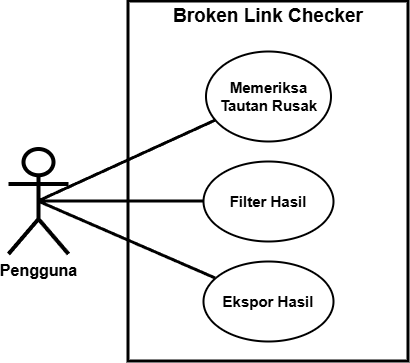
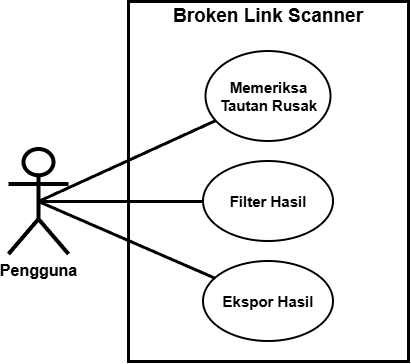
merapikan dokumen

diff --git a/DokumenSkripsi/Bab/analisis/analisis-sistem-serupa/broken-link-checker.tex b/DokumenSkripsi/Bab/analisis/analisis-sistem-serupa/broken-link-checker.tex
@@ -3,14 +3,14 @@ Broken Link Checker\footnote{\url{https://www.brokenlinkcheck.com} (Diakses pada
 
 \subsubsection*{Tampilan dan Interaksi}
 
-Gambar~\ref{fig:analisis-brokenlinkchecker} menunjukkan antarmuka Broken Link Checker saat proses pemeriksaan berlangsung. Alur penggunaan secara umum dimulai dengan memasukkan alamat situs pada kolom input, mengisi kode keamanan, memilih mode pemeriksaan, lalu menekan tombol \textit{Find broken links now!} untuk memulai proses. Selama pemeriksaan berjalan, hasil ditampilkan langsung dalam bentuk tabel, dan pengguna dapat menghentikan proses dengan menekan tombol \textit{Stop}.
+Gambar~\ref{fig:analisis-brokenlinkchecker} menunjukkan antarmuka pengguna Broken Link Checker saat proses pemeriksaan berlangsung. Alur penggunaan secara umum dimulai dengan memasukkan alamat situs pada kolom input, mengisi kode keamanan, memilih mode pemeriksaan, lalu menekan tombol \textit{Find broken links now!} untuk memulai proses. Selama pemeriksaan berjalan, hasil ditampilkan langsung dalam bentuk tabel, dan pengguna dapat menghentikan proses dengan menekan tombol \textit{Stop}.
 
-% \begin{figure}[H]
-%     \centering
-%     \includegraphics[width=0.95\textwidth]{Gambar/030203-broken-link-checker.png}
-%     \caption{Antarmuka Broken Link Checker}
-%     \label{fig:analisis-brokenlinkchecker}
-% \end{figure}
+\begin{figure}[H]
+    \centering
+    \includegraphics[width=0.95\textwidth]{Gambar/030203-broken-link-checker.png}
+    \caption{Antarmuka pengguna Broken Link Checker}
+    \label{fig:analisis-brokenlinkchecker}
+\end{figure}
 
 Berikut adalah komponen utama antarmuka pengguna Broken Link Checker pada layanan pemeriksaan tautan rusak:
 
@@ -19,7 +19,7 @@ Berikut adalah komponen utama antarmuka pengguna Broken Link Checker pada layana
     Komponen ini digunakan untuk memasukkan alamat situs web yang akan diperiksa. Pengguna dapat menuliskan alamat dalam bentuk domain saja, tanpa harus menyertakan skema \texttt{http://} atau \texttt{https://}. Sistem akan tetap menerima input tersebut dan mengolahnya sebagai URL awal pemeriksaan. Kemudahan ini mempersingkat proses input, meskipun dapat menimbulkan potensi ambiguitas pada situs web yang hanya mendukung skema tertentu, misalnya hanya \texttt{https://}.
 
     \item \textbf{Security code}\\
-    Sebelum memulai proses pemeriksaan, pengguna diwajibkan mengisi \textit{security code} berupa captcha. Keharusan ini berfungsi sebagai mekanisme pencegahan terhadap penggunaan otomatis (bot) yang dapat membebani server layanan. Kode keamanan ini bersifat dinamis dan dapat diganti dengan menekan tombol \textit{Generate new code} yang tersedia pada antarmuka.
+    Sebelum memulai proses pemeriksaan, pengguna diwajibkan mengisi \textit{security code} berupa captcha. Keharusan ini berfungsi sebagai mekanisme pencegahan terhadap penggunaan otomatis (bot) yang dapat membebani server layanan. Kode keamanan ini bersifat dinamis dan dapat diganti dengan menekan tombol \textit{Generate new code} yang tersedia pada antarmuka pengguna.
 
     \item \textbf{Mode pemeriksaan}\\
     Tersedia dua pilihan mode pemeriksaan yang dapat dipilih melalui tombol radio, yaitu \textit{Report distinct broken links only}, dan \textit{Report all occurrences of each dead link}. Mode \textit{Report distinct broken links only} menampilkan setiap tautan rusak hanya sekali, tanpa memperhatikan berapa banyak halaman yang memuat tautan tersebut. Pendekatan ini membuat proses lebih cepat, tetapi informasi lokasi kemunculan tautan hanya terbatas pada satu halaman. Sebaliknya, mode \textit{Report all occurrences of each dead link (may be slower)} menampilkan seluruh kemunculan tautan rusak beserta halaman sumbernya. Dengan demikian, jika sebuah tautan rusak terdapat pada beberapa halaman, maka akan muncul beberapa entri dengan sumber berbeda pada tabel hasil. Mode ini memberikan informasi yang lebih lengkap, namun membutuhkan waktu pemrosesan yang lebih lama.
@@ -52,7 +52,7 @@ Berikut adalah komponen utama antarmuka pengguna Broken Link Checker pada layana
 
 
 \subsubsection*{Mekanisme dan Ketentuan Teknis}  
-Selain fitur yang tampak pada antarmuka, Broken Link Checker juga memiliki sejumlah mekanisme teknis yang menentukan cara kerja dan batasan layanan. Mekanisme ini penting untuk dipahami agar pengguna dapat menafsirkan hasil pemeriksaan dengan tepat dan menyesuaikan penggunaan sesuai kebutuhan. Mekanisme dan ketentuan teknis tersebut dapat dirangkum sebagai berikut:
+Selain fitur yang tampak pada antarmuka pengguna, Broken Link Checker juga memiliki sejumlah mekanisme teknis yang menentukan cara kerja dan batasan layanan. Mekanisme ini penting untuk dipahami agar pengguna dapat menafsirkan hasil pemeriksaan dengan tepat dan menyesuaikan penggunaan sesuai kebutuhan. Mekanisme dan ketentuan teknis tersebut dapat dirangkum sebagai berikut:
 
 \vspace{20mm}
 

diff --git a/DokumenSkripsi/Bab/analisis/analisis-masalah/tautan-rusak.tex b/DokumenSkripsi/Bab/analisis/analisis-masalah/tautan-rusak.tex
@@ -19,7 +19,7 @@ Komponen-komponen tersebut menentukan arah dan tujuan akses. Ketidaktepatan nila
 
 \vspace{-3mm}
 \subsubsection*{Validitas Sintaks dan Encoding}
-Pada Subbab~\ref{subsec:0202-karakter-percent-encoding} dijelaskan bahwa URI memiliki aturan sintaks dan \textit{percent-encoding} yang harus dipenuhi agar dapat diproses dengan benar. Pelanggaran terhadap aturan ini menyebabkan URL tidak dapat ditafsirkan atau ditolak oleh server.
+Pada Subsubbab~\ref{subsec:0202-karakter-percent-encoding} dijelaskan bahwa URI memiliki aturan sintaks dan \textit{percent-encoding} yang harus dipenuhi agar dapat diproses dengan benar. Pelanggaran terhadap aturan ini menyebabkan URL tidak dapat ditafsirkan atau ditolak oleh server.
 
 Kesalahan yang dapat menyebabkan tautan rusak antara lain:
 \begin{itemize}
@@ -38,7 +38,7 @@ Selain itu, proses normalisasi URL dapat menghasilkan URL yang tidak valid apabi
 \vspace{-3mm}
 \subsubsection*{URL Relatif}
 \vspace{-2mm}
-Pada Subbab~\ref{subsec:0202-struktur-url} dijelaskan bahwa URL relatif tidak dapat digunakan secara langsung, melainkan harus digabungkan dengan \textit{base} URI untuk membentuk URL absolut. Kesalahan sering terjadi apabila \textit{base} URI tidak sesuai dengan struktur dokumen, sehingga proses resolusi menghasilkan URL absolut yang berbeda dari lokasi sumber daya yang sebenarnya. Selain itu, resolusi URL juga mewajibkan penghapusan \textit{dot-segments} seperti \texttt{.} dan \texttt{..}. Apabila segmen tersebut tidak dihapus, jalur yang dihasilkan menjadi tidak akurat. Akibatnya, URL relatif yang secara sintaks valid berubah menjadi tautan yang gagal diarahkan ke sumber daya yang benar. Situasi ini merupakan salah satu penyebab tautan rusak yang berasal dari kesalahan konstruksi URL absolut, bukan dari kesalahan struktur URL awal.
+Pada Subsubbab~\ref{subsec:0202-struktur-url} dijelaskan bahwa URL relatif tidak dapat digunakan secara langsung, melainkan harus digabungkan dengan \textit{base} URI untuk membentuk URL absolut. Kesalahan sering terjadi apabila \textit{base} URI tidak sesuai dengan struktur dokumen, sehingga proses resolusi menghasilkan URL absolut yang berbeda dari lokasi sumber daya yang sebenarnya. Selain itu, resolusi URL juga mewajibkan penghapusan \textit{dot-segments} seperti \texttt{.} dan \texttt{..}. Apabila segmen tersebut tidak dihapus, jalur yang dihasilkan menjadi tidak akurat. Akibatnya, URL relatif yang secara sintaks valid berubah menjadi tautan yang gagal diarahkan ke sumber daya yang benar. Situasi ini merupakan salah satu penyebab tautan rusak yang berasal dari kesalahan konstruksi URL absolut, bukan dari kesalahan struktur URL awal.
 
 \vspace{-3mm}
 \subsubsection*{Komunikasi HTTP}
@@ -48,7 +48,7 @@ Pada Subbab~\ref{sec:020100-http} dijelaskan bahwa akses terhadap sumber daya ti
 \vspace{-3mm}
 \subsubsection*{Kode Status HTTP}
 \vspace{-2mm}
-Pada Subbab~\ref{subsec:0201-kode-status-http} dijelaskan bahwa kode status HTTP digunakan untuk menunjukkan hasil pemrosesan permintaan. Untuk keperluan penentuan tautan rusak, kategori kode status perlu ditetapkan dengan batas yang jelas agar setiap respons dapat dinilai secara konsisten.
+Pada Subsubbab~\ref{subsec:0201-kode-status-http} dijelaskan bahwa kode status HTTP digunakan untuk menunjukkan hasil pemrosesan permintaan. Untuk keperluan penentuan tautan rusak, kategori kode status perlu ditetapkan dengan batas yang jelas agar setiap respons dapat dinilai secara konsisten.
 
 Dalam penelitian ini ditetapkan bahwa seluruh kode pada kategori \textit{Client Error} 4xx dan \textit{Server Error} 5xx dianggap sebagai indikator kegagalan akses. Kategori \textit{Client Error} 4xx menunjukkan bahwa permintaan tidak berhasil diproses karena terdapat kekeliruan pada permintaan yang dikirimkan, seperti sumber daya yang tidak tersedia, permintaan yang tidak memenuhi syarat, atau pembatasan akses. Kategori \textit{Server Error} 5xx menunjukkan bahwa server tidak mampu menyediakan sumber daya akibat kegagalan pemrosesan atau gangguan pada layanan.
 

diff --git a/DokumenSkripsi/Bab/analisis/analisis-kebutuhan/kebutuhan-fungsional.tex b/DokumenSkripsi/Bab/analisis/analisis-kebutuhan/kebutuhan-fungsional.tex
@@ -1,26 +1,28 @@
-
-Kebutuhan fungsional berikut menggambarkan layanan inti yang harus disediakan oleh aplikasi desktop pemeriksa tautan rusak pada situs web:
+Penetapakan kebutuhan fungsional didasarkan pada analisis masalah (lihat Subbab~\ref{sec:030100-analisis-masalah}) dan analisis sistem serupa (lihat Subbab~\ref{sec:030200-analisis-sistem-serupa}) yang telah dilakukan. Kebutuhan fungsional berikut menggambarkan layanan inti yang harus disediakan oleh aplikasi yang dikembangkan:
 
 \begin{enumerate}
-    \item \textbf{Input URL}\\
-    Sistem harus dapat menerima masukan berupa URL dari pengguna sebagai titik awal pemeriksaan.
+    \item \textbf{Nama aplikasi}\\
+    Sistem akan diberi nama Broken Link Scanner. Nama ini dipilih karena menggambarkan fungsionalitas sistem dan tidak bertabrakan dengan nama sistem lain.
 
-    \item \textbf{Tampilan hasil secara \textit{streaming}}\\
-    Sistem menampilkan daftar tautan yang ditemukan dari halaman web secara langsung (\textit{streaming}) selama proses pemeriksaan berlangsung.
+    % \vspace{-2mm}
+    \item \textbf{Input URL}\\
+    Sistem dapat menerima masukan berupa URL dari pengguna sebagai titik awal pemeriksaan.
+
+    \item \textbf{Menampilkan hasil}\\
+    Sistem menampilkan menampilkan hasil pemeriksaan tautan rusak secara langsung (\textit{streaming}) sehingga pengguna dapat melihat perkembangan pemeriksaan. Selain itu, sistem juga menyediakan bagian tersendiri untuk menampilkan informasi lebih detail dari sebuah tautan rusak.
 
     \item \textbf{Kontrol proses}\\
-    Sistem menyediakan mekanisme bagi pengguna untuk menghentikan proses pemeriksaan kapan saja.
-
+    Sistem menyediakan mekanisme bagi pengguna untuk memulai dan menghentikan proses pemeriksaan kapan saja.
 
     \item \textbf{Ringkasan hasil}\\
-    sistem menampilkan ringkasan berisi jumlah tautan yang diperiksa, jumlah tautan rusak, jumlah tautan yang terblokir, dan status proses pemeriksaan.
+    Sistem menampilkan ringkasan hasil pemeriksaan yang berisi status pemeriksaan, jumlah total tautan, jumlah tautan halaman sumber, jumlah tautan rusak, serta waktu mulai dan waktu selesai pemeriksaan.
 
-    \item \textbf{Sumber tautan rusak}\\
-    Sistem menampilkan lokasi atau halaman tempat tautan rusak ditemukan, sehingga pengguna dapat menelusuri asal masalah.
+    \item \textbf{Lokasi tautan rusak}\\
+    Sistem menampilkan halaman tempat tautan rusak ditemukan, sehingga pengguna dapat menelusuri asal masalah.
 
     \item \textbf{Ekspor hasil}\\
-    Sistem dapat mengekspor hasil pemeriksaan ke dalam berkas Excel agar mudah disimpan, dibagikan, atau dianalisis lebih lanjut.
+    Sistem dapat mengekspor hasil pemeriksaan ke dalam berkas Excel dalam format XLSX. Fitur ini ditetapkan untuk mempermudah pengguna sehingga tidak harus melakukan pemeriksaan ulang berkali-kali setiap ingin mengetahui keberadaan tautan rusak pada situs web.
 
     \item \textbf{\textit{Filter} hasil}\\
-    Sistem dapat melakukan penyaringan hasil pemeriksaan berdasarkan masukan dari pengguna.
+    Sistem dapat melakukan penyaringan hasil pemeriksaan berdasarkan masukan dari pengguna. Fitur ini ditetapkan karena pada sistem serupa sangat menyulitkan ketika ingin mendapatkan tautan rusak dengan kesalahan tertentu.
 \end{enumerate}

diff --git a/DokumenSkripsi/Bab/analisis/analisis-kebutuhan/kebutuhan-non-fungsional.tex b/DokumenSkripsi/Bab/analisis/analisis-kebutuhan/kebutuhan-non-fungsional.tex
@@ -1,29 +1,24 @@
 
 Selain fungsi inti, sistem juga harus memenuhi sejumlah kebutuhan non-fungsional agar pemeriksaan tautan dapat berjalan stabil, efisien, dan mudah digunakan. Kebutuhan non-fungsional yang ditetapkan adalah sebagai berikut:
 
-\begin{enumerate}
+\begin{enumerate}[itemsep=3pt]
     \item \textbf{Antarmuka pengguna}\\
-    Sistem disajikan dalam bentuk aplikasi desktop berbasis JavaFX dengan tampilan yang sederhana, tabel yang mudah dibaca, serta kontrol proses yang jelas.
-
-    \item \textbf{Kinerja pemeriksaan}\\
-    Sistem mampu menangani jumlah tautan yang besar dengan tetap menjaga waktu tanggap yang wajar. Hal ini dicapai dengan penerapan batas waktu (\textit{timeout}) pada setiap permintaan.
-
+    Sistem dibangun melalui aplikasi desktop berbasis JavaFX dengan tampilan yang sederhana, tabel yang mudah dibaca, serta kontrol proses yang jelas.
+    
     \item \textbf{Pengendalian laju}\\
-    Sistem membatasi jumlah permintaan dalam satuan waktu (\textit{rate limiting}) untuk mencegah server tujuan terbebani dan mengurangi risiko pemblokiran.
+    Sistem membatasi jumlah permintaan dalam satuan waktu (\textit{rate limiting}) untuk mencegah \textit{server} tujuan terbebani dan mengurangi risiko pemblokiran.
 
     \item \textbf{Eksekusi paralel}\\
-    Sistem mendukung eksekusi permintaan secara paralel khusus pada tahap pemeriksaan tautan agar proses lebih cepat.
+    Sistem mendukung eksekusi permintaan HTTP secara paralel khusus pada tahap pemeriksaan tautan agar proses lebih cepat.
 
     \item \textbf{Ketahanan terhadap HTML tidak valid}\\
     Sistem mampu mengurai dokumen HTML yang tidak sesuai standar dengan bantuan Jsoup, sehingga tautan tetap dapat diekstrak meskipun struktur dokumen bermasalah.
 
+    \vspace{20mm}
     \item \textbf{Konsistensi identifikasi URL}\\
-    Setiap URL dinormalisasi dan dicatat dalam repository untuk memastikan satu sumber daya hanya diperiksa sekali, sehingga hasil pemeriksaan konsisten dan tidak ada duplikasi.
+    Setiap URL harus dinormalisasi dan dicatat dalam penyimpanan terpusat dan unik untuk memastikan satu sumber daya hanya diperiksa sekali, sehingga hasil pemeriksaan konsisten dan tidak ada duplikasi.
 
     \item \textbf{Etika \textit{crawling}}\\
-    Setiap permintaan menyertakan identitas \texttt{User-Agent}. Sistem juga menyediakan pengaturan jeda permintaan untuk menjaga agar aktivitas pemeriksaan tidak membebani server.
+    Setiap permintaan HTTP harus menyertakan identitas aplikasi melalui \texttt{User-Agent}.
 
 \end{enumerate}
-
-
-\vspace{30mm}

diff --git a/DokumenSkripsi/Bab/pendahuluan/latar-belakang.tex b/DokumenSkripsi/Bab/pendahuluan/latar-belakang.tex
@@ -9,12 +9,12 @@ Namun, kedua aspek tersebut dapat terganggu oleh keberadaan tautan rusak pada si
 Untuk mendeteksi tautan rusak pada sebuah situs web, terdapat dua pendekatan yang dapat digunakan. Pendekatan pertama adalah dengan melakukan pemeriksaan secara manual, namun pendekatan ini menjadi kurang efektif jika situs web memiliki ratusan bahkan ribuan halaman, karena setiap tautan harus diuji satu per satu. Pendekatan kedua adalah dengan memanfaatkan perangkat lunak pemeriksa tautan rusak yang tersedia secara daring seperti Broken Link Checker\footnote{\url{https://www.brokenlinkcheck.com} (Diakses pada 20 Juli 2025)}. Gambar~\ref{fig:contoh-broken-link-checker} menunjukkan hasil pemeriksaan menggunakan Broken Link Checker pada situs web Informatika UNPAR\footnote{\url{https://informatika.unpar.ac.id} (Diakses pada 20 Juli 2025)}. Hasil pemeriksaan tersebut ditampilkan dalam bentuk tabel yang berisi informasi seperti URL dari tautan rusak yang ditemukan, teks pada tautan tersebut, halaman sumber tautan tersebut ditemukan, serta kode status HTTP sebagai respons dari \textit{server}. 
 
 
-% \begin{figure}[H]
-%     \centering
-%     \includegraphics[width=1\textwidth]{Gambar/010100-broken-link-checker.png}
-%     \caption{Contoh Hasil Pemeriksaan Menggunakan Broken Link Checker}
-%     \label{fig:contoh-broken-link-checker}
-% \end{figure}
+\begin{figure}[H]
+    \centering
+    \includegraphics[width=1\textwidth]{Gambar/010100-broken-link-checker.png}
+    \caption{Contoh pemeriksaan tautan rusak menggunakan Broken Link Checker}
+    \label{fig:contoh-broken-link-checker}
+\end{figure}
 
 
 Dalam penelitian ini dikembangkan sebuah perangkat lunak berbasis desktop yang dapat digunakan untuk memeriksa keberadaan tautan rusak pada sebuah situs web. Perangkat lunak ini menerima sebuah masukan berupa URL situs web, kemudian melakukan penelusuran terhadap halaman pada situs web tersebut. Pada setiap halaman yang dikunjungi dilakukan ekstraksi tautan dan setiap tautan yang ditemukan kemudian diperiksa dengan melakukan permintaan HTTP. Respons dari \textit{server} dicatat dan dievaluasi untuk menentukan apakah tautan tersebut teridentifikasi sebagai tautan rusak atau tidak. Selanjutnya, setiap tautan rusak akan dikumpulkan dan disajikan sebagai hasil pemeriksaan. Untuk mempermudah pengguna dalam menjalankan proses pemeriksaan dan membaca hasil pemeriksaan, perangkat lunak ini dilengkapi dengan antarmuka pengguna grafis yang intuitif.

diff --git a/DokumenSkripsi/Bab/implementasi-dan-pengujian/implementasi/implementasi-antarmuka.tex b/DokumenSkripsi/Bab/implementasi-dan-pengujian/implementasi/implementasi-antarmuka.tex
@@ -10,12 +10,12 @@ Bagian ini memaparkan hasil implementasi antarmuka pengguna berdasarkan perancan
 
     \vspace{15mm}
 
-    % \begin{figure}[H]
-    %     \centering
-    %     \includegraphics[width=0.95\textwidth]{Gambar/050104-implementasi-jendela-utama.png}
-    %     \caption{Implementasi Antarmuka Jendela Utama}
-    %     \label{fig:implementasi-jendela-utama}
-    % \end{figure}
+    \begin{figure}[H]
+        \centering
+        \includegraphics[width=0.95\textwidth]{Gambar/050104-implementasi-jendela-utama.png}
+        \caption{Implementasi antarmuka pengguna jendela utama}
+        \label{fig:implementasi-jendela-utama}
+    \end{figure}
 
     \vspace{15mm}
 
@@ -25,12 +25,12 @@ Bagian ini memaparkan hasil implementasi antarmuka pengguna berdasarkan perancan
     Seluruh rancangan komponen antarmuka jendela detail tautan telah berhasil diimplementasikan pada jendela ini. Pada jendela ini ditampilkan informasi lengkap dari sebuah tautan, yaitu URL, \textit{final} URL, \textit{content type}, \textit{error} serta daftar sumber halaman tempat tautan ditemukan yang ditampilkan dalam bentuk tabel.
 
 
-    % \begin{figure}[H]
-    %     \centering
-    %     \includegraphics[width=0.8\textwidth]{Gambar/050104-implementasi-jendela-detail-tautan.png}
-    %     \caption{Implementasi Antarmuka Jendela Detail Tautan}
-    %     \label{fig:implementasi-jendela-detail-tautan}
-    % \end{figure}
+    \begin{figure}[H]
+        \centering
+        \includegraphics[width=0.8\textwidth]{Gambar/050104-implementasi-jendela-detail-tautan.png}
+        \caption{Implementasi antarmuka pengguna jendela detail tautan}
+        \label{fig:implementasi-jendela-detail-tautan}
+    \end{figure}
 
 
     \item \textbf{Jendela Notifikasi}\\
@@ -42,10 +42,10 @@ Bagian ini memaparkan hasil implementasi antarmuka pengguna berdasarkan perancan
 
     \vspace{10mm}
 
-    % \begin{figure}[H]
-    %     \centering
-    %     \includegraphics[width=0.7\textwidth]{Gambar/050104-implementasi-jendela-notifikasi.png}
-    %     \caption{Implementasi Antarmuka Jendela Notifikasi}
-    %     \label{fig:implementasi-jendela-notifikasi}
-    % \end{figure}
+    \begin{figure}[H]
+        \centering
+        \includegraphics[width=0.7\textwidth]{Gambar/050104-implementasi-jendela-notifikasi.png}
+        \caption{Implementasi antarmuka pengguna jendela notifikasi}
+        \label{fig:implementasi-jendela-notifikasi}
+    \end{figure}
 \end{enumerate}

diff --git a/DokumenSkripsi/Bab/analisis/analisis-masalah/web-crawling.tex b/DokumenSkripsi/Bab/analisis/analisis-masalah/web-crawling.tex
@@ -32,7 +32,7 @@ Subbab~\ref{subsec:0204-tantangan-crawling} menjelaskan sejumlah tantangan yang 
 \vspace{-3mm}
 \subsubsection*{Etika \textit{crawling}}
 \vspace{-2mm}
-Subbab~\ref{subsec:0204-etika-crawling} menjelaskan bahwa aktivitas \textit{crawling} tidak hanya berkaitan dengan tantangan teknis, tetapi juga harus memperhatikan etika agar tidak menimbulkan masalah bagi pemilik situs. Salah satu pedoman yang tersedia adalah file \texttt{robots.txt}, yang dapat digunakan untuk menentukan bagian situs mana yang boleh dan tidak boleh diakses oleh \textit{crawler}. Pada sistem yang dikembangkan, aturan ini tidak dijadikan batasan dalam pemeriksaan karena tujuan utama adalah memastikan semua tautan dapat diperiksa.
+Subsubbab~\ref{subsec:0204-etika-crawling} menjelaskan bahwa aktivitas \textit{crawling} tidak hanya berkaitan dengan tantangan teknis, tetapi juga harus memperhatikan etika agar tidak menimbulkan masalah bagi pemilik situs. Salah satu pedoman yang tersedia adalah file \texttt{robots.txt}, yang dapat digunakan untuk menentukan bagian situs mana yang boleh dan tidak boleh diakses oleh \textit{crawler}. Pada sistem yang dikembangkan, aturan ini tidak dijadikan batasan dalam pemeriksaan karena tujuan utama adalah memastikan semua tautan dapat diperiksa.
 
 Aspek lain yang penting adalah identitas \texttt{User-Agent}. Setiap permintaan HTTP yang dikirimkan sistem akan dilengkapi dengan informasi ini agar server mengetahui perangkat lunak apa yang sedang melakukan \textit{crawling}. Identitas tersebut sebaiknya mencantumkan nama aplikasi dan informasi kontak, sehingga administrator situs dapat mengenali sumber permintaan dengan jelas.  
 
@@ -41,7 +41,7 @@ Selain itu, sistem tidak dirancang untuk mengakses area privat, melewati autenti
 \vspace{-3mm}
 \subsubsection*{Ekstraksi Tautan}
 \vspace{-2mm}
-Subbab~\ref{subsec:0224-atribut-global-dan-spesifik} menunjukkan bahwa berbagai elemen HTML dapat memuat URL melalui atribut seperti 
+Subsubbab~\ref{subsec:0224-atribut-global-dan-spesifik} menunjukkan bahwa berbagai elemen HTML dapat memuat URL melalui atribut seperti 
 \texttt{href}, \texttt{src}, atau \texttt{data}. Elemen tersebut meliputi \texttt{<a>}, \texttt{<link>}, \texttt{<script>}, \texttt{<img>}, \texttt{<iframe>}, \texttt{<embed>}, \texttt{<object>}, dan beberapa elemen media lainnya. Karena semua elemen ini bisa mengandung URL maka artinya berpotensi menjadi tautan rusak.
 
 

diff --git a/DokumenSkripsi/Bab/analisis/analisis-sistem-serupa/dead-link-checker.tex b/DokumenSkripsi/Bab/analisis/analisis-sistem-serupa/dead-link-checker.tex
@@ -2,15 +2,15 @@ Dead Link Checker\footnote{\url{https://www.deadlinkchecker.com} (Diakses pada 3
 
 \subsubsection*{Tampilan dan Interaksi}
 
-Gambar~\ref{fig:analisis-deadlinkchecker} menunjukkan tampilan antarmuka Dead Link Checker pada layanan \textit{site check} saat proses pemeriksaan berlangsung. Alur penggunaan secara umum dimulai dengan memasukkan alamat situs, memilih mode pemeriksaan, lalu menekan tombol \textit{check} untuk memulai proses. Selama pemeriksaan berjalan, sistem menampilkan ringkasan progres dan hasilnya diperbarui secara langsung dalam bentuk tabel.
+Gambar~\ref{fig:analisis-deadlinkchecker} menunjukkan tampilan antarmuka pengguna Dead Link Checker pada layanan \textit{site check} saat proses pemeriksaan berlangsung. Alur penggunaan secara umum dimulai dengan memasukkan alamat situs, memilih mode pemeriksaan, lalu menekan tombol \textit{check} untuk memulai proses. Selama pemeriksaan berjalan, sistem menampilkan ringkasan progres dan hasilnya diperbarui secara langsung dalam bentuk tabel.
 
 
-% \begin{figure}[H]
-%     \centering
-%     \includegraphics[width=0.9\textwidth]{Gambar/030202-dead-link-checker.png}
-%     \caption{Antarmuka Dead Link Checker}
-%     \label{fig:analisis-deadlinkchecker}
-% \end{figure}
+\begin{figure}[H]
+    \centering
+    \includegraphics[width=0.9\textwidth]{Gambar/030202-dead-link-checker.png}
+    \caption{Antarmuka pengguna Dead Link Checker}
+    \label{fig:analisis-deadlinkchecker}
+\end{figure}
 
 Berikut adalah penjelasan komponen antarmuka pengguna pada layanan \textit{site check} :
 \begin{enumerate}
@@ -40,7 +40,7 @@ Berikut adalah penjelasan komponen antarmuka pengguna pada layanan \textit{site 
 \end{enumerate}
 
 \subsubsection*{Mekanisme dan Ketentuan Teknis}  
-Selain fitur yang terlihat pada antarmuka, Dead Link Checker juga memiliki mekanisme dan ketentuan teknis berikut:
+Selain fitur yang terlihat pada antarmuka pengguna, Dead Link Checker juga memiliki mekanisme dan ketentuan teknis berikut:
 
 \begin{enumerate}
     \item \textbf{\textit{Crawling} rekursif}\\

diff --git a/DokumenSkripsi/Bab/analisis/analisis-teknologi/java-http-client-api.tex b/DokumenSkripsi/Bab/analisis/analisis-teknologi/java-http-client-api.tex
@@ -4,6 +4,7 @@ Pemanfaatan Java HTTP Client API sejalan dengan beberapa kebutuhan non-fungsiona
 
 Beberapa kelas dan method utama dari API ini yang dapat digunakan dalam implementasi adalah sebagai berikut:
 
+\vspace{2mm}
 \begin{itemize}[itemsep=5pt]
   \item \texttt{HttpClient}\\
   Kelas ini dipakai sebagai titik masuk untuk membangun klien HTTP. Objek dibuat melalui \texttt{HttpClient.newBuilder()}, dengan konfigurasi penting seperti \texttt{version()} untuk memilih protokol HTTP/1.1 atau HTTP/2, \texttt{connectTimeout(Duration)} untuk menetapkan batas waktu koneksi, dan \texttt{followRedirects()} untuk menentukan kebijakan pengalihan. Objek yang dihasilkan bersifat \textit{immutable} dan \textit{thread-safe}, sehingga dapat digunakan secara bersamaan oleh banyak \textit{thread} pemeriksaan.
@@ -18,4 +19,4 @@ Beberapa kelas dan method utama dari API ini yang dapat digunakan dalam implemen
   Digunakan untuk membaca seluruh \textit{header} dari respon, misalnya \texttt{Content-Type} atau \texttt{Set-Cookie}. Informasi ini relevan untuk analisis tambahan, namun yang paling penting adalah mendukung pelabelan hasil pemeriksaan agar pengguna dapat memahami konteks status setiap tautan.
 \end{itemize}
 
-\vspace{20mm}
+\vspace{30mm}

diff --git a/DokumenSkripsi/Bab/landasan-teori/javafx.tex b/DokumenSkripsi/Bab/landasan-teori/javafx.tex
@@ -19,7 +19,7 @@ Setiap aplikasi JavaFX diturunkan dari kelas abstrak \texttt{javafx.application.
 
 Kode~\ref{lst:javafx-basic-structure} memperlihatkan contoh struktur program JavaFX yang memuat antarmuka dari berkas FXML dan menerapkan gaya visual dengan CSS.
 
-\begin{lstlisting}[language=Java, caption=Struktur dasar aplikasi JavaFX, label=lst:javafx-basic-structure]
+\begin{lstlisting}[language=Java, caption={Contoh struktur dasar aplikasi JavaFX}, label=lst:javafx-basic-structure]
 @Override
 public void start(Stage stage) throws Exception {
     FXMLLoader loader = new FXMLLoader(getClass().getResource("view.fxml"));
@@ -68,7 +68,7 @@ Komponen-komponen tersebut dapat didefinisikan secara deklaratif dengan mengguna
 
 Kode~\ref{lst:javafx-fxml} memperlihatkan contoh struktur antarmuka berbasis FXML yang menggunakan \texttt{BorderPane} dan \texttt{HBox} sebagai kontainer tata letak.
 
-\begin{lstlisting}[language=XML, caption=Contoh struktur antarmuka menggunakan FXML, label=lst:javafx-fxml]
+\begin{lstlisting}[language=XML, caption=Contoh struktur dasar dokumen FXML, label=lst:javafx-fxml]
 <BorderPane xmlns:fx="http://javafx.com/fxml"
             fx:controller="com.example.Controller">
   <top>

diff --git a/DokumenSkripsi/Lampiran/pengujian-eksperimental/tabel-pengujian-informatika-unpad.tex b/DokumenSkripsi/Lampiran/pengujian-eksperimental/tabel-pengujian-informatika-unpad.tex
@@ -37,29 +37,29 @@
 
 Host Not Found & 10 & 10 & 11 \\ \hline
 
-Connection Failed & 4 & -- & 2 \\ \hline
+Connection Failed & 4 & 0 & 2 \\ \hline
 
 Timeout & 10 & 2 & 2 \\ \hline
 
-Invalid URL & 5 & -- & -- \\ \hline
+Invalid URL & 5 & 0 & 0 \\ \hline
 
-SSL Error & 2 & -- & -- \\ \hline
+SSL Error & 2 & 0 & 0 \\ \hline
 
-Too many redirections & -- & -- & 2 \\ \hline
+Too many redirections & 0 & 0 & 2 \\ \hline
 
-400 Bad Request & -- & -- & 1 \\ \hline
+400 Bad Request & 0 & 0 & 1 \\ \hline
 
-401 Unauthorized & 11 & -- & 11 \\ \hline
+401 Unauthorized & 11 & 0 & 11 \\ \hline
 
-403 Forbidden & 6 & -- & 4 \\ \hline
+403 Forbidden & 6 & 0 & 4 \\ \hline
 
 404 Not Found & 214 & 20 & 397 \\ \hline
 
-405 Method Not Allowed & -- & -- & 2 \\ \hline
+405 Method Not Allowed & 0 & 0 & 2 \\ \hline
 
-429 Too Many Requests & -- & -- & 1 \\ \hline
+429 Too Many Requests & 0 & 0 & 1 \\ \hline
 
-502 Bad Gateway & 1 & -- & -- \\ \hline
+502 Bad Gateway & 1 & 0 & 0 \\ \hline
 
 503 Service Unavailable & 1 & 1 & 1 \\ \hline
 
@@ -69,7 +69,7 @@ Too many redirections & -- & -- & 2 \\ \hline
 
 530 & 3 & 3 & 3 \\ \hline
 
-999 & 1 & -- & 1 \\ \hline
+999 & 1 & 0 & 1 \\ \hline
 
 
 

diff --git a/DokumenSkripsi/Bab/perancangan/perancangan-antarmuka.tex b/DokumenSkripsi/Bab/perancangan/perancangan-antarmuka.tex
@@ -93,16 +93,16 @@ Perancangan antarmuka pengguna digunakan untuk memberikan gambaran visual kompon
 
 \end{enumerate}
 
-% \begin{figure}[H]
-%     \centering
-%     \includegraphics[width=0.85\textwidth]{Gambar/040301-rancangan-jendela-utama.png}
-%     \caption{Rancangan Antarmuka Jendela Utama}
-%     \label{fig:rancangan-antarmuka-jendela-utama}
-% \end{figure}
+\begin{figure}[H]
+    \centering
+    \includegraphics[width=0.85\textwidth]{Gambar/040301-rancangan-jendela-utama.png}
+    \caption{Rancangan antarmuka pengguna jendela utama}
+    \label{fig:rancangan-antarmuka-jendela-utama}
+\end{figure}
 
-% \begin{figure}[H]
-%     \centering
-%     \includegraphics[width=0.85\textwidth]{Gambar/040302-rancangan-jendela-detail-tautan.png}
-%     \caption{Rancangan Antarmuka Jendela Detail Tautan}
-%     \label{fig:rancangan-antarmuka-jendela-detail-tautan}
-% \end{figure}
+\begin{figure}[H]
+    \centering
+    \includegraphics[width=0.85\textwidth]{Gambar/040302-rancangan-jendela-detail-tautan.png}
+    \caption{Rancangan antarmuka pengguna jendela detail tautan}
+    \label{fig:rancangan-antarmuka-jendela-detail-tautan}
+\end{figure}
